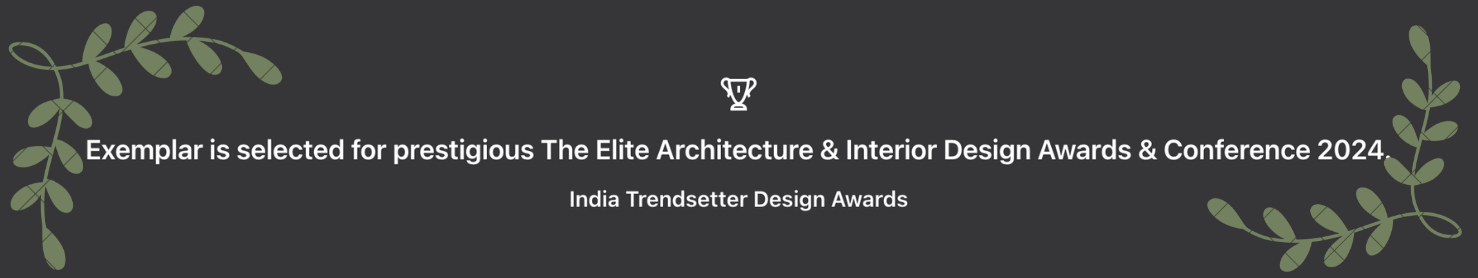
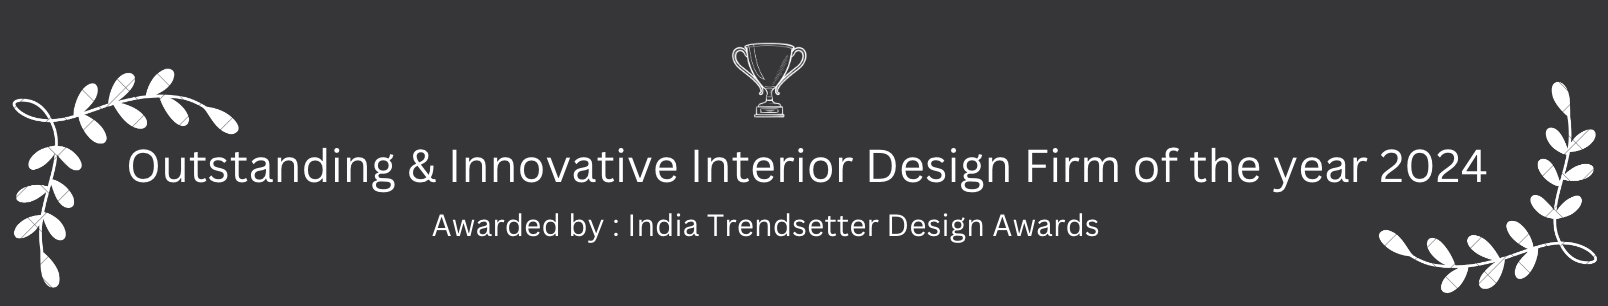
award changed

diff --git a/src/Styles/Carousel.css b/src/Styles/Carousel.css
@@ -1,22 +1,21 @@
 @media (min-width: 1024px) {
-   /*slider*/
+  /*slider*/
   #carouselExampleIndicators {
     position: relative;
-    width: 80%; 
+    width: 80%;
     height: 70vh;
-    margin: auto; 
+    margin: auto;
     overflow: hidden;
-    
   }
   #carouselExampleIndicators .carousel-inner {
     position: relative;
-    height: 100%; 
+    height: 100%;
     width: 100%;
     border-radius: 0.5rem;
     /* background-color: #d8cfd0; */
-    overflow: hidden; 
+    overflow: hidden;
   }
- 
+
   #carouselExampleIndicators .carousel-inner .carousel-item {
     position: relative;
     height: 100%;
@@ -47,11 +46,11 @@
     border-radius: 0.5rem;
   }
   .carousel-control-prev,
-  .carousel-control-next{
+  .carousel-control-next {
     position: absolute;
     z-index: 20;
   }
-  .container-fluid{
+  .container-fluid {
     height: 90vh;
   }
 
@@ -71,7 +70,7 @@
     width: 100%;
     max-width: 120px;
   }
-  
+
   .custom-indicators li {
     width: 8px;
     height: 8px;
@@ -81,21 +80,17 @@
     cursor: pointer;
     transition: background-color 0.3s ease;
   }
-  
+
   .custom-indicators li.active {
     background-color: #fff;
   }
-  
-
-
 
   /* /////////// */
-
 
   .animated-text {
     animation: slideIn 1s ease-in-out forwards;
   }
-  
+
   @keyframes slideIn {
     from {
       opacity: 0;
@@ -106,72 +101,80 @@
       transform: translateY(0);
     }
   }
-  
-  
 
+  .award-png {
+    width: 50%;
+    height: 17vh;
+    padding-bottom: "1.25rem";
+  }
 }
 
-
-
 @media (min-width: 10px) and (max-width: 576px) {
-    /*slider*/
-   #carouselExampleIndicators {
-     position: relative;
-     width: 100%; 
-     height: 50vh;
-     margin: auto; 
-     overflow: hidden;
-   }
-   #carouselExampleIndicators .carousel-inner {
-     position: relative;
-     height: 40vh; 
-     width: 100%;
-     border-radius: 0.5rem;
-     overflow: hidden; 
-   }
-
-   #carouselExampleIndicators .carousel-inner .carousel-item {
-     position: relative;
-     height: 100%;
-     width: 100%;
-     border-radius: 0.5rem;
-     background-position: center;
-     background-attachment: fixed;
-   }
-   #carouselExampleIndicators .carousel-inner .carousel-item:nth-child(2) {
-     background-position: center;
-     background-attachment: fixed;
-     border-radius: 0.5rem;
-   }
-   #carouselExampleIndicators .carousel-inner .carousel-item:nth-child(3) {
-     background-position: center;
-     background-attachment: fixed;
-     border-radius: 0.5rem;
-   }
- 
-   #carouselExampleIndicators .carousel-inner .carousel-item .info {
-     position: absolute;
-     display: flex;
-     justify-content: center;
-     align-items: center;
-     height: 50vh;
-     width: 100%;
-     z-index: 1;
-     border-radius: 0.5rem;
-   }
-   .carousel-control-prev,
-   .carousel-control-next{
-     position: absolute;
-     z-index: 20;
-   }
-   .container-fluid{
-     height: 50vh;
-   }
 
 
-   /* //////// */
+  .award-png {
+    width: 75%;
+    height: 10vh;
+    margin-top: 2rem;
+  }
 
-   .custom-indicators {
+  /*slider*/
+  #carouselExampleIndicators {
+    position: relative;
+    width: 100%;
+    height: 50vh;
+    margin: auto;
+    overflow: hidden;
+  }
+  #carouselExampleIndicators .carousel-inner {
+    position: relative;
+    height: 40vh;
+    width: 100%;
+    border-radius: 0.5rem;
+    overflow: hidden;
+  }
+
+  #carouselExampleIndicators .carousel-inner .carousel-item {
+    position: relative;
+    height: 100%;
+    width: 100%;
+    border-radius: 0.5rem;
+    background-position: center;
+    background-attachment: fixed;
+  }
+  #carouselExampleIndicators .carousel-inner .carousel-item:nth-child(2) {
+    background-position: center;
+    background-attachment: fixed;
+    border-radius: 0.5rem;
+  }
+  #carouselExampleIndicators .carousel-inner .carousel-item:nth-child(3) {
+    background-position: center;
+    background-attachment: fixed;
+    border-radius: 0.5rem;
+  }
+
+  #carouselExampleIndicators .carousel-inner .carousel-item .info {
+    position: absolute;
+    display: flex;
+    justify-content: center;
+    align-items: center;
+    height: 50vh;
+    width: 100%;
+    z-index: 1;
+    border-radius: 0.5rem;
+  }
+  .carousel-control-prev,
+  .carousel-control-next {
+    position: absolute;
+    z-index: 20;
+  }
+  .container-fluid {
+    height: 50vh;
+  }
+
+  /* //////// */
+
+  .custom-indicators {
     position: absolute;
     bottom: 10px;
     left: 50%;
@@ -185,7 +188,7 @@
     width: 100%;
     max-width: 120px;
   }
-  
+
   .custom-indicators li {
     width: 8px;
     height: 8px;
@@ -195,8 +198,8 @@
     cursor: pointer;
     transition: background-color 0.3s ease;
   }
-  
+
   .custom-indicators li.active {
     background-color: #fff;
   }
- }
+}

diff --git a/src/Component/Retail.jsx b/src/Component/Retail.jsx
@@ -9,6 +9,8 @@ import project1 from "../Images/seven1.jpeg";
 import project11 from "../Images/seven2.jpeg";
 import project30 from "../Images/seven4.jpeg";
 import project6 from "../Images/trends8.jpeg";
+import washing from "../Images/washing.png";
+import reliance from "../Images/relianedigi.webp"
 
 
 const Retail = () => {
@@ -55,6 +57,20 @@ const Retail = () => {
                 alt="gallery"
                 class="block h-full w-full rounded-lg object-cover object-center"
                 src={project30}
+              />
+            </div>
+            <div class="w-full p-1 md:p-2">
+              <img
+                alt="gallery"
+                class="block h-full w-full rounded-lg object-cover object-center"
+                src={washing}
+              />
+            </div>
+            <div class="w-full p-1 md:p-2">
+              <img
+                alt="gallery"
+                class="block h-full w-full rounded-lg object-cover object-center"
+                src={reliance}
               />
             </div>
           </div>

diff --git a/src/Component/Carousel.jsx b/src/Component/Carousel.jsx
@@ -54,10 +54,10 @@ function IndividualIntervalsExample() {
       <div className="container-fluid bg-bronze">
         <div className="row h-full flex justify-center items-center">
           {/* ///////// */}
-          <div className="flex justify-center items-center pb-5">
+          <div className="flex justify-center items-center">
            
 
-            <img style={{width:"50%", height:"17vh"}} src={award} alt="" />
+            <img className="award-png" src={award} alt="" />
           </div>
 
           {/* /////////// */}
